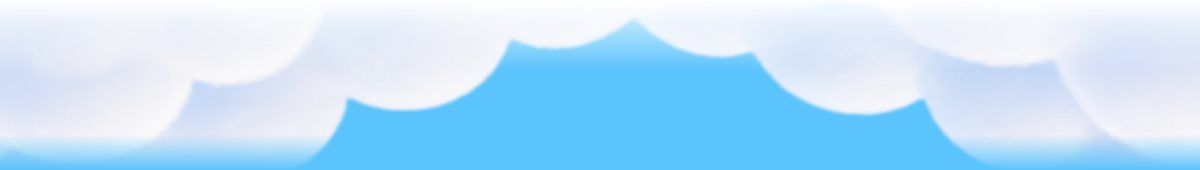
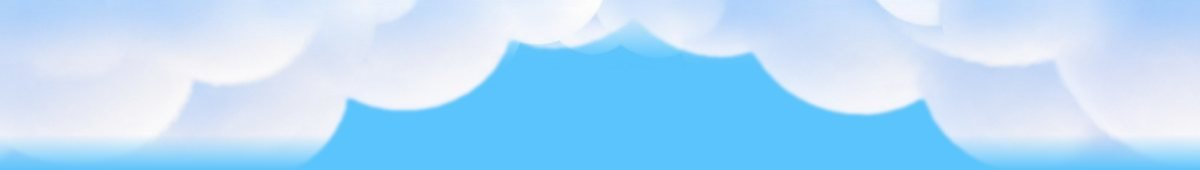
Uniones de nubes por reflejo continuo, sin franja blanca
Claude-Session: https://claude.ai/code/session_014n8fruw4BUtYLKWozkJouR

diff --git a/index.html b/index.html
@@ -19,52 +19,52 @@ body{margin:0;padding:0;background:#EEF3F9}
 <tr><td align="center" style="padding:10px 16px;font-family:Arial, Helvetica, sans-serif;font-size:12px;line-height:18px;color:#4A5878;background:#EEF3F9">
 <strong style="color:#0B2A6F">Publicidad</strong> · Ejercicio académico. Mercaviva es una marca ficticia; no es una comunicación oficial de Carrefour.<br>
 ¿No ves bien este email? <a href="{$url}" target="_blank" style="color:#0057B8;text-decoration:underline">Ábrelo en el navegador</a></td></tr>
-<tr><td style="padding:0"><a href="https://www.carrefour.es/lavadora-lg-f2x50s9tlb-9-kg-carga-frontal-1200-rpm-wifi-clase-a-blanco/VC4A-32514266/p?utm_source=newsletter&utm_medium=email&utm_campaign=black_friday_2026&utm_content=lavadora_lg" target="_blank"><img src="https://caarlosfdz.github.io/newsletter-mercaviva/bf-cover.jpg?v=10190859" width="600" alt="Mercaviva. Black Friday del 20 de octubre al 27 de noviembre: 50 % y 70 % de descuento en tecnología, electrodomésticos y alimentación" class="fluid" style="display:block;width:100%;max-width:600px;height:auto;border:0"></a></td></tr>
-<tr><td style="padding:0"><a href="https://www.carrefour.es/lavadora-lg-f2x50s9tlb-9-kg-carga-frontal-1200-rpm-wifi-clase-a-blanco/VC4A-32514266/p?utm_source=newsletter&utm_medium=email&utm_campaign=black_friday_2026&utm_content=lavadora_lg" target="_blank"><img src="https://caarlosfdz.github.io/newsletter-mercaviva/bf-p1.jpg?v=10190859" width="600" alt="Lavadora LG 9 kg: 164,70 €, antes 549 €, 70 % de descuento" class="fluid" style="display:block;width:100%;max-width:600px;height:auto;border:0"></a></td></tr>
-<tr><td style="padding:0"><img src="https://caarlosfdz.github.io/newsletter-mercaviva/bf-tit-tecnologia.jpg?v=10190859" width="600" alt="Ofertas en tecnología: descuentos de hasta el 70 %" class="fluid" style="display:block;width:100%;max-width:600px;height:auto;border:0"></td></tr>
-<tr><td style="padding:0"><img src="https://caarlosfdz.github.io/newsletter-mercaviva/bf-nubes-arriba.jpg?v=10190859" width="600" alt="" class="fluid" style="display:block;width:100%;max-width:600px;height:auto;border:0"></td></tr>
+<tr><td style="padding:0"><a href="https://www.carrefour.es/lavadora-lg-f2x50s9tlb-9-kg-carga-frontal-1200-rpm-wifi-clase-a-blanco/VC4A-32514266/p?utm_source=newsletter&utm_medium=email&utm_campaign=black_friday_2026&utm_content=lavadora_lg" target="_blank"><img src="https://caarlosfdz.github.io/newsletter-mercaviva/bf-cover.jpg?v=10190903" width="600" alt="Mercaviva. Black Friday del 20 de octubre al 27 de noviembre: 50 % y 70 % de descuento en tecnología, electrodomésticos y alimentación" class="fluid" style="display:block;width:100%;max-width:600px;height:auto;border:0"></a></td></tr>
+<tr><td style="padding:0"><a href="https://www.carrefour.es/lavadora-lg-f2x50s9tlb-9-kg-carga-frontal-1200-rpm-wifi-clase-a-blanco/VC4A-32514266/p?utm_source=newsletter&utm_medium=email&utm_campaign=black_friday_2026&utm_content=lavadora_lg" target="_blank"><img src="https://caarlosfdz.github.io/newsletter-mercaviva/bf-p1.jpg?v=10190903" width="600" alt="Lavadora LG 9 kg: 164,70 €, antes 549 €, 70 % de descuento" class="fluid" style="display:block;width:100%;max-width:600px;height:auto;border:0"></a></td></tr>
+<tr><td style="padding:0"><img src="https://caarlosfdz.github.io/newsletter-mercaviva/bf-tit-tecnologia.jpg?v=10190903" width="600" alt="Ofertas en tecnología: descuentos de hasta el 70 %" class="fluid" style="display:block;width:100%;max-width:600px;height:auto;border:0"></td></tr>
+<tr><td style="padding:0"><img src="https://caarlosfdz.github.io/newsletter-mercaviva/bf-nubes-arriba.jpg?v=10190903" width="600" alt="" class="fluid" style="display:block;width:100%;max-width:600px;height:auto;border:0"></td></tr>
 <tr><td bgcolor="#5CC4FC" style="padding:0;background:#5CC4FC"><table role="presentation" cellpadding="0" cellspacing="0" border="0" width="100%"><tr>
-<td class="col" width="300" valign="top" style="width:300px;vertical-align:top"><a href="https://www.carrefour.es/proyector-yaber-pro-u9-proyector-1080p-nativo-con-wifi-5g-y-bluetooth-15000lm-brillo-ultra-alto-460-ansi-corrector-keystone-4p-4d/0602561264473/p?utm_source=newsletter&utm_medium=email&utm_campaign=black_friday_2026&utm_content=proyector_yaber" target="_blank"><img src="https://caarlosfdz.github.io/newsletter-mercaviva/bf-p6.png?v=10190859" width="300" alt="Proyector Yaber Pro U9: 95,22 €, antes 218,99 €, −56,5 % y envío gratis" class="fluid" style="display:block;width:100%;max-width:300px;height:auto;border:0"></a>
+<td class="col" width="300" valign="top" style="width:300px;vertical-align:top"><a href="https://www.carrefour.es/proyector-yaber-pro-u9-proyector-1080p-nativo-con-wifi-5g-y-bluetooth-15000lm-brillo-ultra-alto-460-ansi-corrector-keystone-4p-4d/0602561264473/p?utm_source=newsletter&utm_medium=email&utm_campaign=black_friday_2026&utm_content=proyector_yaber" target="_blank"><img src="https://caarlosfdz.github.io/newsletter-mercaviva/bf-p6.png?v=10190903" width="300" alt="Proyector Yaber Pro U9: 95,22 €, antes 218,99 €, −56,5 % y envío gratis" class="fluid" style="display:block;width:100%;max-width:300px;height:auto;border:0"></a>
 <div style="padding:4px 14px 26px"><table role="presentation" cellpadding="0" cellspacing="0" border="0" width="100%"><tr><td align="center" bgcolor="#5CC4FC" style="background:#5CC4FC">
-<a href="https://www.carrefour.es/proyector-yaber-pro-u9-proyector-1080p-nativo-con-wifi-5g-y-bluetooth-15000lm-brillo-ultra-alto-460-ansi-corrector-keystone-4p-4d/0602561264473/p?utm_source=newsletter&utm_medium=email&utm_campaign=black_friday_2026&utm_content=proyector_yaber" target="_blank" style="display:block;text-decoration:none"><img src="https://caarlosfdz.github.io/newsletter-mercaviva/bf-btn-p6.png?v=10190859" width="270" alt="Llévatelo ya" class="fluid" style="display:block;width:100%;max-width:270px;height:auto;border:0;font-family:Arial, Helvetica, sans-serif;font-size:16px;font-weight:bold;line-height:52px;color:#0B2A6F;text-align:center"></a></td></tr></table></div></td>
-<td class="col" width="300" valign="top" style="width:300px;vertical-align:top"><a href="https://www.carrefour.es/lavavajillas-60-cm-candy-cf3e7e0w-5-programas-13-cubiertos-clase-e-blanco/VC4A-33175690/p?utm_source=newsletter&utm_medium=email&utm_campaign=black_friday_2026&utm_content=lavavajillas_candy" target="_blank"><img src="https://caarlosfdz.github.io/newsletter-mercaviva/bf-p2.png?v=10190859" width="300" alt="Lavavajillas Candy CF3E7E0W: 154,50 €, antes 309 €, −50 %" class="fluid" style="display:block;width:100%;max-width:300px;height:auto;border:0"></a>
+<a href="https://www.carrefour.es/proyector-yaber-pro-u9-proyector-1080p-nativo-con-wifi-5g-y-bluetooth-15000lm-brillo-ultra-alto-460-ansi-corrector-keystone-4p-4d/0602561264473/p?utm_source=newsletter&utm_medium=email&utm_campaign=black_friday_2026&utm_content=proyector_yaber" target="_blank" style="display:block;text-decoration:none"><img src="https://caarlosfdz.github.io/newsletter-mercaviva/bf-btn-p6.png?v=10190903" width="270" alt="Llévatelo ya" class="fluid" style="display:block;width:100%;max-width:270px;height:auto;border:0;font-family:Arial, Helvetica, sans-serif;font-size:16px;font-weight:bold;line-height:52px;color:#0B2A6F;text-align:center"></a></td></tr></table></div></td>
+<td class="col" width="300" valign="top" style="width:300px;vertical-align:top"><a href="https://www.carrefour.es/lavavajillas-60-cm-candy-cf3e7e0w-5-programas-13-cubiertos-clase-e-blanco/VC4A-33175690/p?utm_source=newsletter&utm_medium=email&utm_campaign=black_friday_2026&utm_content=lavavajillas_candy" target="_blank"><img src="https://caarlosfdz.github.io/newsletter-mercaviva/bf-p2.png?v=10190903" width="300" alt="Lavavajillas Candy CF3E7E0W: 154,50 €, antes 309 €, −50 %" class="fluid" style="display:block;width:100%;max-width:300px;height:auto;border:0"></a>
 <div style="padding:4px 14px 26px"><table role="presentation" cellpadding="0" cellspacing="0" border="0" width="100%"><tr><td align="center" bgcolor="#5CC4FC" style="background:#5CC4FC">
-<a href="https://www.carrefour.es/lavavajillas-60-cm-candy-cf3e7e0w-5-programas-13-cubiertos-clase-e-blanco/VC4A-33175690/p?utm_source=newsletter&utm_medium=email&utm_campaign=black_friday_2026&utm_content=lavavajillas_candy" target="_blank" style="display:block;text-decoration:none"><img src="https://caarlosfdz.github.io/newsletter-mercaviva/bf-btn-p2.png?v=10190859" width="270" alt="Aprovecha el −50 %" class="fluid" style="display:block;width:100%;max-width:270px;height:auto;border:0;font-family:Arial, Helvetica, sans-serif;font-size:16px;font-weight:bold;line-height:52px;color:#0B2A6F;text-align:center"></a></td></tr></table></div></td></tr></table></td></tr>
+<a href="https://www.carrefour.es/lavavajillas-60-cm-candy-cf3e7e0w-5-programas-13-cubiertos-clase-e-blanco/VC4A-33175690/p?utm_source=newsletter&utm_medium=email&utm_campaign=black_friday_2026&utm_content=lavavajillas_candy" target="_blank" style="display:block;text-decoration:none"><img src="https://caarlosfdz.github.io/newsletter-mercaviva/bf-btn-p2.png?v=10190903" width="270" alt="Aprovecha el −50 %" class="fluid" style="display:block;width:100%;max-width:270px;height:auto;border:0;font-family:Arial, Helvetica, sans-serif;font-size:16px;font-weight:bold;line-height:52px;color:#0B2A6F;text-align:center"></a></td></tr></table></div></td></tr></table></td></tr>
 <tr><td bgcolor="#5CC4FC" style="padding:0;background:#5CC4FC"><table role="presentation" cellpadding="0" cellspacing="0" border="0" width="100%"><tr>
-<td class="col" width="300" valign="top" style="width:300px;vertical-align:top"><a href="https://www.carrefour.es/tv-lg-oled-evo-c5-2025-83-uhd-4k-oled83c5ela/8806096419687/p?utm_source=newsletter&utm_medium=email&utm_campaign=black_friday_2026&utm_content=tv_lg_oled" target="_blank"><img src="https://caarlosfdz.github.io/newsletter-mercaviva/bf-p5.png?v=10190859" width="300" alt="TV LG OLED evo C5 83 pulgadas: 4.877,62 €, antes 6.150,99 €, −20,7 %" class="fluid" style="display:block;width:100%;max-width:300px;height:auto;border:0"></a>
+<td class="col" width="300" valign="top" style="width:300px;vertical-align:top"><a href="https://www.carrefour.es/tv-lg-oled-evo-c5-2025-83-uhd-4k-oled83c5ela/8806096419687/p?utm_source=newsletter&utm_medium=email&utm_campaign=black_friday_2026&utm_content=tv_lg_oled" target="_blank"><img src="https://caarlosfdz.github.io/newsletter-mercaviva/bf-p5.png?v=10190903" width="300" alt="TV LG OLED evo C5 83 pulgadas: 4.877,62 €, antes 6.150,99 €, −20,7 %" class="fluid" style="display:block;width:100%;max-width:300px;height:auto;border:0"></a>
 <div style="padding:4px 14px 26px"><table role="presentation" cellpadding="0" cellspacing="0" border="0" width="100%"><tr><td align="center" bgcolor="#5CC4FC" style="background:#5CC4FC">
-<a href="https://www.carrefour.es/tv-lg-oled-evo-c5-2025-83-uhd-4k-oled83c5ela/8806096419687/p?utm_source=newsletter&utm_medium=email&utm_campaign=black_friday_2026&utm_content=tv_lg_oled" target="_blank" style="display:block;text-decoration:none"><img src="https://caarlosfdz.github.io/newsletter-mercaviva/bf-btn-p5.png?v=10190859" width="270" alt="Ahorra 1.273 €" class="fluid" style="display:block;width:100%;max-width:270px;height:auto;border:0;font-family:Arial, Helvetica, sans-serif;font-size:16px;font-weight:bold;line-height:52px;color:#0B2A6F;text-align:center"></a></td></tr></table></div></td>
-<td class="col" width="300" valign="top" style="width:300px;vertical-align:top"><a href="https://www.carrefour.es/consola-nintendo-switch-2-256-gb-star-fox/VLOT-34789303/p?utm_source=newsletter&utm_medium=email&utm_campaign=black_friday_2026&utm_content=switch2_starfox" target="_blank"><img src="https://caarlosfdz.github.io/newsletter-mercaviva/bf-p3.png?v=10190859" width="300" alt="Nintendo Switch 2 + Star Fox: súperchollo a 519 €" class="fluid" style="display:block;width:100%;max-width:300px;height:auto;border:0"></a>
+<a href="https://www.carrefour.es/tv-lg-oled-evo-c5-2025-83-uhd-4k-oled83c5ela/8806096419687/p?utm_source=newsletter&utm_medium=email&utm_campaign=black_friday_2026&utm_content=tv_lg_oled" target="_blank" style="display:block;text-decoration:none"><img src="https://caarlosfdz.github.io/newsletter-mercaviva/bf-btn-p5.png?v=10190903" width="270" alt="Ahorra 1.273 €" class="fluid" style="display:block;width:100%;max-width:270px;height:auto;border:0;font-family:Arial, Helvetica, sans-serif;font-size:16px;font-weight:bold;line-height:52px;color:#0B2A6F;text-align:center"></a></td></tr></table></div></td>
+<td class="col" width="300" valign="top" style="width:300px;vertical-align:top"><a href="https://www.carrefour.es/consola-nintendo-switch-2-256-gb-star-fox/VLOT-34789303/p?utm_source=newsletter&utm_medium=email&utm_campaign=black_friday_2026&utm_content=switch2_starfox" target="_blank"><img src="https://caarlosfdz.github.io/newsletter-mercaviva/bf-p3.png?v=10190903" width="300" alt="Nintendo Switch 2 + Star Fox: súperchollo a 519 €" class="fluid" style="display:block;width:100%;max-width:300px;height:auto;border:0"></a>
 <div style="padding:4px 14px 26px"><table role="presentation" cellpadding="0" cellspacing="0" border="0" width="100%"><tr><td align="center" bgcolor="#5CC4FC" style="background:#5CC4FC">
-<a href="https://www.carrefour.es/consola-nintendo-switch-2-256-gb-star-fox/VLOT-34789303/p?utm_source=newsletter&utm_medium=email&utm_campaign=black_friday_2026&utm_content=switch2_starfox" target="_blank" style="display:block;text-decoration:none"><img src="https://caarlosfdz.github.io/newsletter-mercaviva/bf-btn-p3.png?v=10190859" width="270" alt="Ver el súperchollo" class="fluid" style="display:block;width:100%;max-width:270px;height:auto;border:0;font-family:Arial, Helvetica, sans-serif;font-size:16px;font-weight:bold;line-height:52px;color:#0B2A6F;text-align:center"></a></td></tr></table></div></td></tr></table></td></tr>
+<a href="https://www.carrefour.es/consola-nintendo-switch-2-256-gb-star-fox/VLOT-34789303/p?utm_source=newsletter&utm_medium=email&utm_campaign=black_friday_2026&utm_content=switch2_starfox" target="_blank" style="display:block;text-decoration:none"><img src="https://caarlosfdz.github.io/newsletter-mercaviva/bf-btn-p3.png?v=10190903" width="270" alt="Ver el súperchollo" class="fluid" style="display:block;width:100%;max-width:270px;height:auto;border:0;font-family:Arial, Helvetica, sans-serif;font-size:16px;font-weight:bold;line-height:52px;color:#0B2A6F;text-align:center"></a></td></tr></table></div></td></tr></table></td></tr>
 
 <tr><td bgcolor="#5CC4FC" style="padding:0;background:#5CC4FC"><table role="presentation" cellpadding="0" cellspacing="0" border="0" width="100%"><tr>
-<td class="col" width="300" valign="top" style="width:300px;vertical-align:top"><a href="https://www.carrefour.es/pikmin-4-academia-dandori-para-switch-2/VC4A-34697905/p?utm_source=newsletter&utm_medium=email&utm_campaign=black_friday_2026&utm_content=pikmin4" target="_blank"><img src="https://caarlosfdz.github.io/newsletter-mercaviva/bf-p4.png?v=10190859" width="300" alt="Pikmin 4 + Academia Dandori en precompra: 59,90 €, antes 69,99 €, envío gratis" class="fluid" style="display:block;width:100%;max-width:300px;height:auto;border:0"></a>
+<td class="col" width="300" valign="top" style="width:300px;vertical-align:top"><a href="https://www.carrefour.es/pikmin-4-academia-dandori-para-switch-2/VC4A-34697905/p?utm_source=newsletter&utm_medium=email&utm_campaign=black_friday_2026&utm_content=pikmin4" target="_blank"><img src="https://caarlosfdz.github.io/newsletter-mercaviva/bf-p4.png?v=10190903" width="300" alt="Pikmin 4 + Academia Dandori en precompra: 59,90 €, antes 69,99 €, envío gratis" class="fluid" style="display:block;width:100%;max-width:300px;height:auto;border:0"></a>
 <div style="padding:4px 14px 26px"><table role="presentation" cellpadding="0" cellspacing="0" border="0" width="100%"><tr><td align="center" bgcolor="#5CC4FC" style="background:#5CC4FC">
-<a href="https://www.carrefour.es/pikmin-4-academia-dandori-para-switch-2/VC4A-34697905/p?utm_source=newsletter&utm_medium=email&utm_campaign=black_friday_2026&utm_content=pikmin4" target="_blank" style="display:block;text-decoration:none"><img src="https://caarlosfdz.github.io/newsletter-mercaviva/bf-btn-p4.png?v=10190859" width="270" alt="Resérvalo ya" class="fluid" style="display:block;width:100%;max-width:270px;height:auto;border:0;font-family:Arial, Helvetica, sans-serif;font-size:16px;font-weight:bold;line-height:52px;color:#0B2A6F;text-align:center"></a></td></tr></table></div></td>
+<a href="https://www.carrefour.es/pikmin-4-academia-dandori-para-switch-2/VC4A-34697905/p?utm_source=newsletter&utm_medium=email&utm_campaign=black_friday_2026&utm_content=pikmin4" target="_blank" style="display:block;text-decoration:none"><img src="https://caarlosfdz.github.io/newsletter-mercaviva/bf-btn-p4.png?v=10190903" width="270" alt="Resérvalo ya" class="fluid" style="display:block;width:100%;max-width:270px;height:auto;border:0;font-family:Arial, Helvetica, sans-serif;font-size:16px;font-weight:bold;line-height:52px;color:#0B2A6F;text-align:center"></a></td></tr></table></div></td>
 <td class="col" width="300" valign="middle" style="width:300px;vertical-align:middle;padding:20px;font-family:Arial, Helvetica, sans-serif;color:#0B2A6F">
 <p style="margin:0 0 8px;font-size:20px;line-height:24px;font-weight:bold">Envío gratis</p>
 <p style="margin:0;font-size:15px;line-height:21px">En los productos marcados. Ofertas válidas del 20 de octubre al 27 de noviembre o hasta fin de existencias.</p></td></tr></table></td></tr>
-<tr><td style="padding:0"><img src="https://caarlosfdz.github.io/newsletter-mercaviva/bf-nubes-abajo.jpg?v=10190859" width="600" alt="" class="fluid" style="display:block;width:100%;max-width:600px;height:auto;border:0"></td></tr>
-<tr><td style="padding:0"><img src="https://caarlosfdz.github.io/newsletter-mercaviva/bf-tit-compra.jpg?v=10190859" width="600" alt="Ofertas en tu compra: 3x2, 2.ª unidad al 50 % y precios imbatibles" class="fluid" style="display:block;width:100%;max-width:600px;height:auto;border:0"></td></tr>
-<tr><td style="padding:0"><img src="https://caarlosfdz.github.io/newsletter-mercaviva/bf-nubes-arriba.jpg?v=10190859" width="600" alt="" class="fluid" style="display:block;width:100%;max-width:600px;height:auto;border:0"></td></tr>
+<tr><td style="padding:0"><img src="https://caarlosfdz.github.io/newsletter-mercaviva/bf-nubes-abajo.jpg?v=10190903" width="600" alt="" class="fluid" style="display:block;width:100%;max-width:600px;height:auto;border:0"></td></tr>
+<tr><td style="padding:0"><img src="https://caarlosfdz.github.io/newsletter-mercaviva/bf-tit-compra.jpg?v=10190903" width="600" alt="Ofertas en tu compra: 3x2, 2.ª unidad al 50 % y precios imbatibles" class="fluid" style="display:block;width:100%;max-width:600px;height:auto;border:0"></td></tr>
+<tr><td style="padding:0"><img src="https://caarlosfdz.github.io/newsletter-mercaviva/bf-nubes-arriba-2.jpg?v=10190903" width="600" alt="" class="fluid" style="display:block;width:100%;max-width:600px;height:auto;border:0"></td></tr>
 <tr><td bgcolor="#5CC4FC" style="padding:0;background:#5CC4FC"><table role="presentation" cellpadding="0" cellspacing="0" border="0" width="100%"><tr>
-<td class="col" width="300" valign="top" style="width:300px;vertical-align:top"><a href="https://www.carrefour.es/supermercado/aceite-de-oliva-virgen-serie-oro-coosur-1-l/R-VC4AECOMM-484256/p?utm_source=newsletter&utm_medium=email&utm_campaign=black_friday_2026&utm_content=aceite_coosur" target="_blank"><img src="https://caarlosfdz.github.io/newsletter-mercaviva/bf-p9.png?v=10190859" width="300" alt="Aceite Coosur Serie Oro 1 l: 3x2, el litro sale a 4,13 €" class="fluid" style="display:block;width:100%;max-width:300px;height:auto;border:0"></a>
+<td class="col" width="300" valign="top" style="width:300px;vertical-align:top"><a href="https://www.carrefour.es/supermercado/aceite-de-oliva-virgen-serie-oro-coosur-1-l/R-VC4AECOMM-484256/p?utm_source=newsletter&utm_medium=email&utm_campaign=black_friday_2026&utm_content=aceite_coosur" target="_blank"><img src="https://caarlosfdz.github.io/newsletter-mercaviva/bf-p9.png?v=10190903" width="300" alt="Aceite Coosur Serie Oro 1 l: 3x2, el litro sale a 4,13 €" class="fluid" style="display:block;width:100%;max-width:300px;height:auto;border:0"></a>
 <div style="padding:4px 14px 26px"><table role="presentation" cellpadding="0" cellspacing="0" border="0" width="100%"><tr><td align="center" bgcolor="#5CC4FC" style="background:#5CC4FC">
-<a href="https://www.carrefour.es/supermercado/aceite-de-oliva-virgen-serie-oro-coosur-1-l/R-VC4AECOMM-484256/p?utm_source=newsletter&utm_medium=email&utm_campaign=black_friday_2026&utm_content=aceite_coosur" target="_blank" style="display:block;text-decoration:none"><img src="https://caarlosfdz.github.io/newsletter-mercaviva/bf-btn-p9.png?v=10190859" width="270" alt="Llévate 3, paga 2" class="fluid" style="display:block;width:100%;max-width:270px;height:auto;border:0;font-family:Arial, Helvetica, sans-serif;font-size:16px;font-weight:bold;line-height:52px;color:#0B2A6F;text-align:center"></a></td></tr></table></div></td>
-<td class="col" width="300" valign="top" style="width:300px;vertical-align:top"><a href="https://www.carrefour.es/supermercado/aceite-de-oliva-suave-04-la-espanola-1-l/R-520660257/p?utm_source=newsletter&utm_medium=email&utm_campaign=black_friday_2026&utm_content=aceite_la_espanola" target="_blank"><img src="https://caarlosfdz.github.io/newsletter-mercaviva/bf-p10.png?v=10190859" width="300" alt="Aceite La Española suave 1 l: 3x2, el litro sale a 3,66 €" class="fluid" style="display:block;width:100%;max-width:300px;height:auto;border:0"></a>
+<a href="https://www.carrefour.es/supermercado/aceite-de-oliva-virgen-serie-oro-coosur-1-l/R-VC4AECOMM-484256/p?utm_source=newsletter&utm_medium=email&utm_campaign=black_friday_2026&utm_content=aceite_coosur" target="_blank" style="display:block;text-decoration:none"><img src="https://caarlosfdz.github.io/newsletter-mercaviva/bf-btn-p9.png?v=10190903" width="270" alt="Llévate 3, paga 2" class="fluid" style="display:block;width:100%;max-width:270px;height:auto;border:0;font-family:Arial, Helvetica, sans-serif;font-size:16px;font-weight:bold;line-height:52px;color:#0B2A6F;text-align:center"></a></td></tr></table></div></td>
+<td class="col" width="300" valign="top" style="width:300px;vertical-align:top"><a href="https://www.carrefour.es/supermercado/aceite-de-oliva-suave-04-la-espanola-1-l/R-520660257/p?utm_source=newsletter&utm_medium=email&utm_campaign=black_friday_2026&utm_content=aceite_la_espanola" target="_blank"><img src="https://caarlosfdz.github.io/newsletter-mercaviva/bf-p10.png?v=10190903" width="300" alt="Aceite La Española suave 1 l: 3x2, el litro sale a 3,66 €" class="fluid" style="display:block;width:100%;max-width:300px;height:auto;border:0"></a>
 <div style="padding:4px 14px 26px"><table role="presentation" cellpadding="0" cellspacing="0" border="0" width="100%"><tr><td align="center" bgcolor="#5CC4FC" style="background:#5CC4FC">
-<a href="https://www.carrefour.es/supermercado/aceite-de-oliva-suave-04-la-espanola-1-l/R-520660257/p?utm_source=newsletter&utm_medium=email&utm_campaign=black_friday_2026&utm_content=aceite_la_espanola" target="_blank" style="display:block;text-decoration:none"><img src="https://caarlosfdz.github.io/newsletter-mercaviva/bf-btn-p10.png?v=10190859" width="270" alt="Aprovecha el 3x2" class="fluid" style="display:block;width:100%;max-width:270px;height:auto;border:0;font-family:Arial, Helvetica, sans-serif;font-size:16px;font-weight:bold;line-height:52px;color:#0B2A6F;text-align:center"></a></td></tr></table></div></td></tr></table></td></tr>
+<a href="https://www.carrefour.es/supermercado/aceite-de-oliva-suave-04-la-espanola-1-l/R-520660257/p?utm_source=newsletter&utm_medium=email&utm_campaign=black_friday_2026&utm_content=aceite_la_espanola" target="_blank" style="display:block;text-decoration:none"><img src="https://caarlosfdz.github.io/newsletter-mercaviva/bf-btn-p10.png?v=10190903" width="270" alt="Aprovecha el 3x2" class="fluid" style="display:block;width:100%;max-width:270px;height:auto;border:0;font-family:Arial, Helvetica, sans-serif;font-size:16px;font-weight:bold;line-height:52px;color:#0B2A6F;text-align:center"></a></td></tr></table></div></td></tr></table></td></tr>
 <tr><td bgcolor="#5CC4FC" style="padding:0;background:#5CC4FC"><table role="presentation" cellpadding="0" cellspacing="0" border="0" width="100%"><tr>
-<td class="col" width="300" valign="top" style="width:300px;vertical-align:top"><a href="https://www.carrefour.es/supermercado/salmon-ahumado-noruego-carrefour-extra-100-g/R-682701980/p?utm_source=newsletter&utm_medium=email&utm_campaign=black_friday_2026&utm_content=salmon_ahumado" target="_blank"><img src="https://caarlosfdz.github.io/newsletter-mercaviva/bf-p7.png?v=10190859" width="300" alt="Salmón ahumado noruego Extra 100 g: 2.ª unidad al 50 %, cada una a 2,77 €" class="fluid" style="display:block;width:100%;max-width:300px;height:auto;border:0"></a>
+<td class="col" width="300" valign="top" style="width:300px;vertical-align:top"><a href="https://www.carrefour.es/supermercado/salmon-ahumado-noruego-carrefour-extra-100-g/R-682701980/p?utm_source=newsletter&utm_medium=email&utm_campaign=black_friday_2026&utm_content=salmon_ahumado" target="_blank"><img src="https://caarlosfdz.github.io/newsletter-mercaviva/bf-p7.png?v=10190903" width="300" alt="Salmón ahumado noruego Extra 100 g: 2.ª unidad al 50 %, cada una a 2,77 €" class="fluid" style="display:block;width:100%;max-width:300px;height:auto;border:0"></a>
 <div style="padding:4px 14px 26px"><table role="presentation" cellpadding="0" cellspacing="0" border="0" width="100%"><tr><td align="center" bgcolor="#5CC4FC" style="background:#5CC4FC">
-<a href="https://www.carrefour.es/supermercado/salmon-ahumado-noruego-carrefour-extra-100-g/R-682701980/p?utm_source=newsletter&utm_medium=email&utm_campaign=black_friday_2026&utm_content=salmon_ahumado" target="_blank" style="display:block;text-decoration:none"><img src="https://caarlosfdz.github.io/newsletter-mercaviva/bf-btn-p7.png?v=10190859" width="270" alt="Añadir a la cesta" class="fluid" style="display:block;width:100%;max-width:270px;height:auto;border:0;font-family:Arial, Helvetica, sans-serif;font-size:16px;font-weight:bold;line-height:52px;color:#0B2A6F;text-align:center"></a></td></tr></table></div></td>
-<td class="col" width="300" valign="top" style="width:300px;vertical-align:top"><a href="https://www.carrefour.es/supermercado/lubina-600-g-aprox/R-790212148/p?utm_source=newsletter&utm_medium=email&utm_campaign=black_friday_2026&utm_content=lubina" target="_blank"><img src="https://caarlosfdz.github.io/newsletter-mercaviva/bf-p8.png?v=10190859" width="300" alt="Lubina 600 g aprox.: 5,39 €, antes 5,97 €" class="fluid" style="display:block;width:100%;max-width:300px;height:auto;border:0"></a>
+<a href="https://www.carrefour.es/supermercado/salmon-ahumado-noruego-carrefour-extra-100-g/R-682701980/p?utm_source=newsletter&utm_medium=email&utm_campaign=black_friday_2026&utm_content=salmon_ahumado" target="_blank" style="display:block;text-decoration:none"><img src="https://caarlosfdz.github.io/newsletter-mercaviva/bf-btn-p7.png?v=10190903" width="270" alt="Añadir a la cesta" class="fluid" style="display:block;width:100%;max-width:270px;height:auto;border:0;font-family:Arial, Helvetica, sans-serif;font-size:16px;font-weight:bold;line-height:52px;color:#0B2A6F;text-align:center"></a></td></tr></table></div></td>
+<td class="col" width="300" valign="top" style="width:300px;vertical-align:top"><a href="https://www.carrefour.es/supermercado/lubina-600-g-aprox/R-790212148/p?utm_source=newsletter&utm_medium=email&utm_campaign=black_friday_2026&utm_content=lubina" target="_blank"><img src="https://caarlosfdz.github.io/newsletter-mercaviva/bf-p8.png?v=10190903" width="300" alt="Lubina 600 g aprox.: 5,39 €, antes 5,97 €" class="fluid" style="display:block;width:100%;max-width:300px;height:auto;border:0"></a>
 <div style="padding:4px 14px 26px"><table role="presentation" cellpadding="0" cellspacing="0" border="0" width="100%"><tr><td align="center" bgcolor="#5CC4FC" style="background:#5CC4FC">
-<a href="https://www.carrefour.es/supermercado/lubina-600-g-aprox/R-790212148/p?utm_source=newsletter&utm_medium=email&utm_campaign=black_friday_2026&utm_content=lubina" target="_blank" style="display:block;text-decoration:none"><img src="https://caarlosfdz.github.io/newsletter-mercaviva/bf-btn-p8.png?v=10190859" width="270" alt="Quiero esta lubina" class="fluid" style="display:block;width:100%;max-width:270px;height:auto;border:0;font-family:Arial, Helvetica, sans-serif;font-size:16px;font-weight:bold;line-height:52px;color:#0B2A6F;text-align:center"></a></td></tr></table></div></td></tr></table></td></tr>
-<tr><td style="padding:0"><img src="https://caarlosfdz.github.io/newsletter-mercaviva/bf-nubes-abajo.jpg?v=10190859" width="600" alt="" class="fluid" style="display:block;width:100%;max-width:600px;height:auto;border:0"></td></tr>
+<a href="https://www.carrefour.es/supermercado/lubina-600-g-aprox/R-790212148/p?utm_source=newsletter&utm_medium=email&utm_campaign=black_friday_2026&utm_content=lubina" target="_blank" style="display:block;text-decoration:none"><img src="https://caarlosfdz.github.io/newsletter-mercaviva/bf-btn-p8.png?v=10190903" width="270" alt="Quiero esta lubina" class="fluid" style="display:block;width:100%;max-width:270px;height:auto;border:0;font-family:Arial, Helvetica, sans-serif;font-size:16px;font-weight:bold;line-height:52px;color:#0B2A6F;text-align:center"></a></td></tr></table></div></td></tr></table></td></tr>
+<tr><td style="padding:0"><img src="https://caarlosfdz.github.io/newsletter-mercaviva/bf-nubes-abajo.jpg?v=10190903" width="600" alt="" class="fluid" style="display:block;width:100%;max-width:600px;height:auto;border:0"></td></tr>
 <tr><td align="center" style="padding:10px 20px 6px"><a href="https://www.mercaviva.es/?utm_source=newsletter&utm_medium=email&utm_campaign=black_friday_2026&utm_content=footer" target="_blank" style="font-family:Arial, Helvetica, sans-serif;font-size:16px;font-weight:bold;color:#0057B8;text-decoration:none">www.mercaviva.es</a></td></tr>
-<tr><td align="center" style="padding:8px 20px 18px"><table role="presentation" cellpadding="0" cellspacing="0" border="0"><tr><td style="padding:0 6px"><a href="https://www.mercaviva.es/redes/instagram" target="_blank"><img src="https://caarlosfdz.github.io/newsletter-mercaviva/bf-ico-instagram.png?v=10190859" width="40" height="40" alt="Instagram" style="display:block;border:0;width:40px;height:40px"></a></td><td style="padding:0 6px"><a href="https://www.mercaviva.es/redes/facebook" target="_blank"><img src="https://caarlosfdz.github.io/newsletter-mercaviva/bf-ico-facebook.png?v=10190859" width="40" height="40" alt="Facebook" style="display:block;border:0;width:40px;height:40px"></a></td><td style="padding:0 6px"><a href="https://www.mercaviva.es/redes/tiktok" target="_blank"><img src="https://caarlosfdz.github.io/newsletter-mercaviva/bf-ico-tiktok.png?v=10190859" width="40" height="40" alt="TikTok" style="display:block;border:0;width:40px;height:40px"></a></td><td style="padding:0 6px"><a href="https://www.mercaviva.es/redes/youtube" target="_blank"><img src="https://caarlosfdz.github.io/newsletter-mercaviva/bf-ico-youtube.png?v=10190859" width="40" height="40" alt="YouTube" style="display:block;border:0;width:40px;height:40px"></a></td><td style="padding:0 6px"><a href="https://www.mercaviva.es/redes/x" target="_blank"><img src="https://caarlosfdz.github.io/newsletter-mercaviva/bf-ico-x.png?v=10190859" width="40" height="40" alt="X" style="display:block;border:0;width:40px;height:40px"></a></td></tr></table></td></tr>
+<tr><td align="center" style="padding:8px 20px 18px"><table role="presentation" cellpadding="0" cellspacing="0" border="0"><tr><td style="padding:0 6px"><a href="https://www.mercaviva.es/redes/instagram" target="_blank"><img src="https://caarlosfdz.github.io/newsletter-mercaviva/bf-ico-instagram.png?v=10190903" width="40" height="40" alt="Instagram" style="display:block;border:0;width:40px;height:40px"></a></td><td style="padding:0 6px"><a href="https://www.mercaviva.es/redes/facebook" target="_blank"><img src="https://caarlosfdz.github.io/newsletter-mercaviva/bf-ico-facebook.png?v=10190903" width="40" height="40" alt="Facebook" style="display:block;border:0;width:40px;height:40px"></a></td><td style="padding:0 6px"><a href="https://www.mercaviva.es/redes/tiktok" target="_blank"><img src="https://caarlosfdz.github.io/newsletter-mercaviva/bf-ico-tiktok.png?v=10190903" width="40" height="40" alt="TikTok" style="display:block;border:0;width:40px;height:40px"></a></td><td style="padding:0 6px"><a href="https://www.mercaviva.es/redes/youtube" target="_blank"><img src="https://caarlosfdz.github.io/newsletter-mercaviva/bf-ico-youtube.png?v=10190903" width="40" height="40" alt="YouTube" style="display:block;border:0;width:40px;height:40px"></a></td><td style="padding:0 6px"><a href="https://www.mercaviva.es/redes/x" target="_blank"><img src="https://caarlosfdz.github.io/newsletter-mercaviva/bf-ico-x.png?v=10190903" width="40" height="40" alt="X" style="display:block;border:0;width:40px;height:40px"></a></td></tr></table></td></tr>
 <tr><td style="padding:16px 24px 26px;font-family:Arial, Helvetica, sans-serif;font-size:12px;line-height:18px;color:#4A5878;background:#EEF3F9">
 <p style="margin:0 0 10px"><strong style="color:#0B2A6F">Condiciones de las promociones.</strong> Válidas del 20/10/2026 al 27/11/2026 o hasta fin de existencias. <strong>3x2:</strong> al comprar 3 unidades del mismo producto, la de menor precio sale gratis. <strong>2.ª ud. al 50 %:</strong> descuento del 50 % en la segunda unidad del mismo producto. <strong>Envío gratis:</strong> solo en los productos indicados y en envíos a la península. Precios con IVA incluido. Descuentos calculados sobre el precio anterior indicado.</p>
 <p style="margin:0 0 10px">Recibes este email porque estás suscrito a la newsletter de Mercaviva. Remitente: Mercaviva Supermercados, S.A. (empresa ficticia), C/ Ejemplo, 1, 28000 Madrid. Consulta nuestra <a href="https://www.mercaviva.es/privacidad" target="_blank" style="color:#0057B8;text-decoration:underline">política de privacidad</a> o <a href="{$unsubscribe}" target="_blank" style="color:#0057B8;text-decoration:underline">date de baja</a> cuando quieras.</p>
